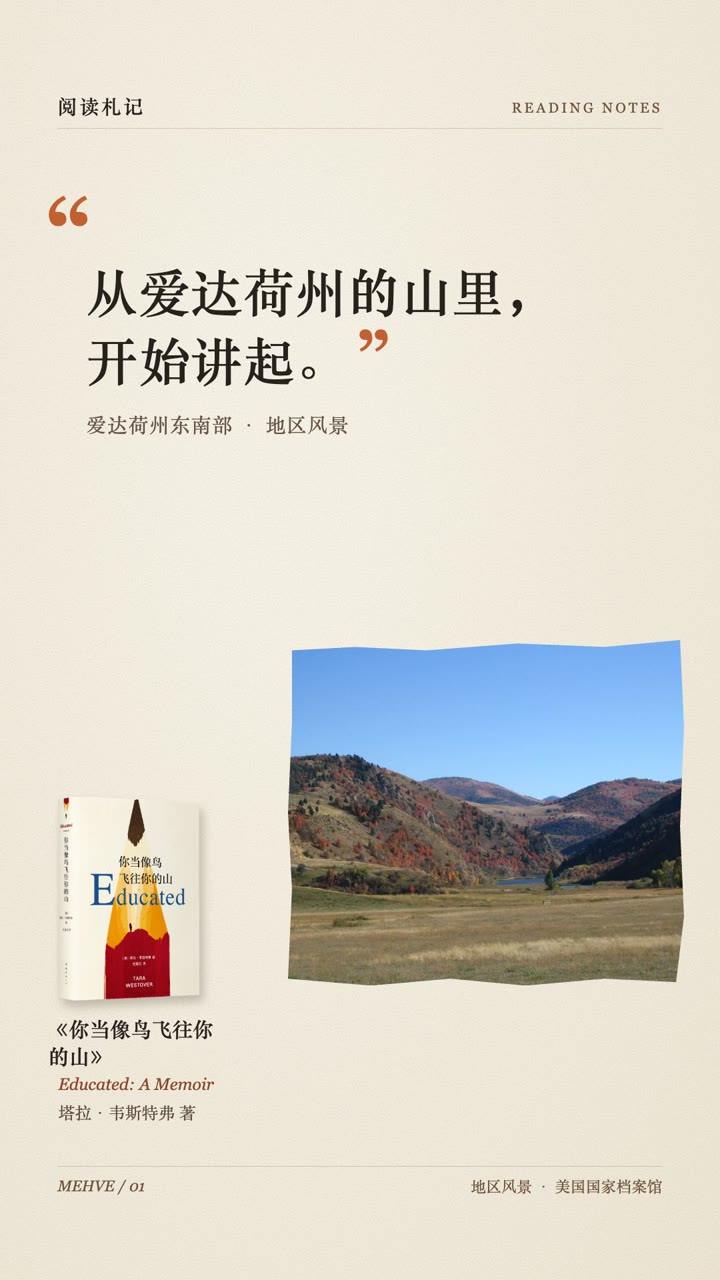
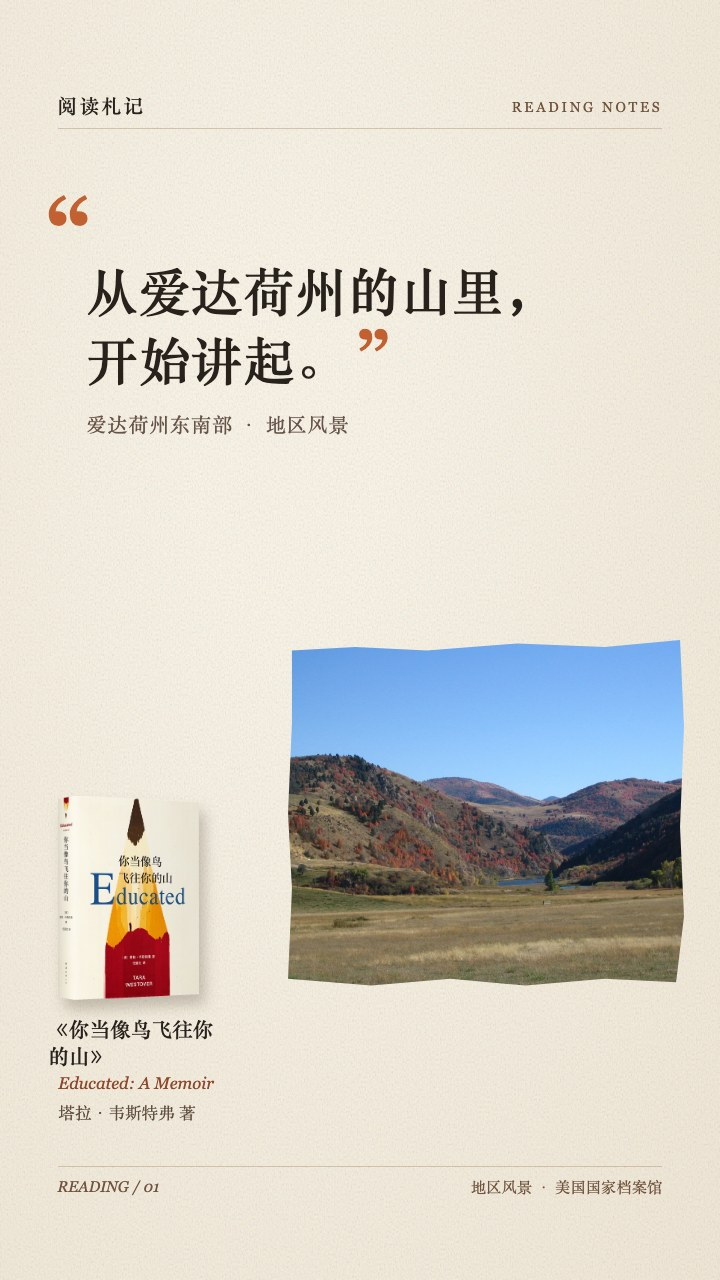
Remove legacy branding from reading demo stills

diff --git a/README.md b/README.md
@@ -37,7 +37,7 @@
 
 ### Ⅱ 不露脸垂直 · 读书短片示例
 
-以下画面截自两支 Remotion 成片。两集都采用纸页拼贴和本地 Qwen3-TTS Serena 配音，第二集通过 Handbook 复用了第一集的栏目设置。
+以下是两支 Remotion 成片的关键帧，统一使用「阅读札记」页脚。两集都采用纸页拼贴和本地 Qwen3-TTS Serena 配音，第二集通过 Handbook 复用了第一集的栏目设置。
 
 | EP01《你当像鸟飞往你的山》· 36 秒 | EP02《心流：投入感从哪里来》· 40 秒 |
 | --- | --- |
